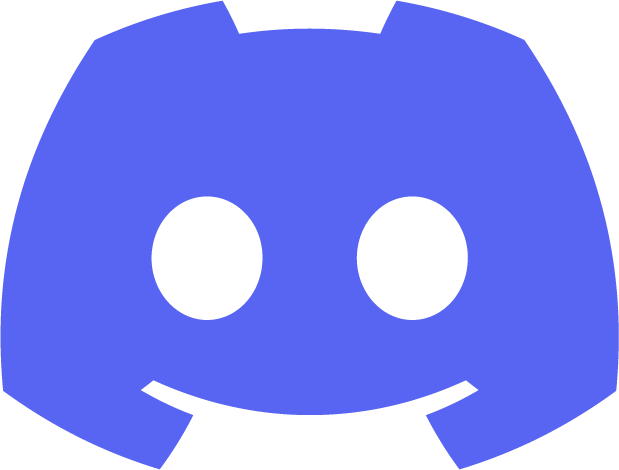
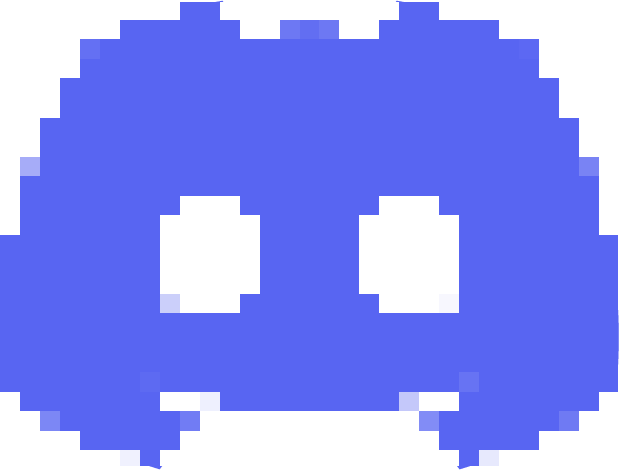
footer

diff --git a/src/components/Footer/Footer.jsx b/src/components/Footer/Footer.jsx
@@ -1,20 +1,63 @@
 import styles from "./footer.module.css"
 
-import tiktokIcon from "@assets/tiktok.png";
+import gmailIcon from "@assets/gmail2.png";
 import instagramIcon from "@assets/instagram.png";
 import discordIcon from "@assets/discord.png";
+import rufusIcon from "@assets/rufus.png"
 
-
-// test 
 const Footer = () => {
     return (
-        <footer className={styles.footer}>
-            <div className={styles.socials}>
-                <a href="#"><img src={tiktokIcon} alt="TikTok" /></a>
-                <a href="#"><img src={instagramIcon} alt="Instagram" /></a>
-                <a href="#"><img src={discordIcon} alt="Discord" /></a>
-            </div>
-        </footer>
+            <footer className={styles.footer}>
+                <div className={styles.footer_content}>
+                    <h2 className={styles.footer_title}>MERCED GAME JAM 2025!</h2>
+                    <p className={styles.footer_tagline}>BUILD · PLAY · CONNECT</p>
+                                        
+                    <div className={styles.socials}>
+                        <div className={styles.gmail_container}>
+                            <a 
+                                href="mailto:ucmgamedevelopmentclub@gmail.com" 
+                                className={styles.social_icon}
+                            >
+                                <img className={styles.pixel_icon} src={gmailIcon}/>
+                            </a>
+                        </div>
+                        <div className={styles.insta_container}>
+                            <a 
+                                href="https://www.instagram.com/ucmgamedevelopmentclub/?hl=en" 
+                                className={styles.social_icon}
+                                target="_blank"
+                            >
+                                <img className={styles.pixel_icon} src={instagramIcon}/>
+                            </a>
+                        </div>
+                        <div className={styles.discord_container}>
+                            <a 
+                                href="https://www.instagram.com/ucmgamedevelopmentclub/?hl=en " 
+                                className={styles.social_icon}
+                                target="_blank"
+                            >
+                                <img className={styles.pixel_icon} src={discordIcon}/>
+                            </a>
+                        </div>
+                        <div className={styles.rufus_container}>
+                            <a  
+                                href="https://events.ucmerced.edu/group/game_development_club " 
+                                className={styles.social_icon}
+                                target="_blank"
+                            >
+                                <img className={styles.pixel_icon} src={rufusIcon}/>
+                            </a>
+                        </div>
+                    </div>
+                                        
+                    <div>
+                        <span className={styles.text}>2025 Merced Game Jam Team</span>
+                    </div>
+                    
+                    <div class="pixel-character"></div>
+                </div>
+                
+            </footer>
     );
 };
 

diff --git a/src/components/Footer/footer.module.css b/src/components/Footer/footer.module.css
@@ -1,10 +1,154 @@
-.footer {
-    padding: 20px;
-    background: blue;
-    text-align: center;
+@font-face {
+    font-family: 'MonroFont';
+    src: url('../../assets/fonts/Munro-2LYe.ttf') format('truetype');
+    font-weight: normal;
+    font-style: normal;
 }
 
-.footer .socials img {
-    width: 30px;
-    margin: 0 10px;
+
+.footer {
+    background-color: #111;
+    position: relative;
+    border-top: 4px solid #444;
+    overflow: hidden;
+    font-family: 'MonroFont';
 }
+
+.footer::before {
+    content: '';
+    position: absolute;
+    top: 0;
+    left: 0;
+    right: 0;
+    height: 3px;
+    background: linear-gradient(90deg, #ff0055, #5500ff, #00ff55, #ffaa00);
+    background-size: 200% 200%;
+    animation: rainbow 3s linear infinite;
+}
+
+.footer_content {
+    max-width: 1200px;
+    margin: 0 auto;
+    padding: 20px;
+    display: flex;
+    flex-direction: column;
+    align-items: center;
+    position: relative;
+}
+
+.footer_title {
+    color: #fff;
+    font-size: 28px;
+    margin-bottom: 15px;
+    text-shadow: 
+      3px 3px 0 #ff0055,
+      -3px -3px 0 #5500ff;
+    letter-spacing: 2px;
+    transform: rotate(-2deg);
+    animation: pulse 2s infinite;
+}
+  
+
+.footer_tagline {
+    color: #aaa;
+    text-align: center;
+    font-size: 14px;
+    margin-bottom: 20px;
+  }
+
+  /* Social icons container */
+  .socials {
+    display: flex;
+    justify-items: center;
+    align-items: center;
+    gap: 20px;
+    position: relative;
+    z-index: 2;
+    margin-bottom: 25px;
+  }
+  
+  /* Base social icon styling */
+  .social_icon {
+    width: 100%;
+    display: flex;
+    justify-content: center;
+  }
+
+  .gmail_container {
+    display: flex;
+    width: 35px;
+    height: 30px;
+  }
+
+  .insta_container {
+    display: flex;
+    width: 35px;
+    height: 35px;
+  }
+
+  .discord_container {
+    display: flex;
+    width: 35px;
+    height: 30px;
+  }
+
+  .rufus_container {
+    display: flex;
+    width: 35px;
+    height: 40px;
+    margin-bottom: 2px
+  }
+
+
+  
+  /* Pixel icon inside each social button */
+  .pixel-icon {
+    width: 30px;
+    height: 30px;
+    display: block;
+    image-rendering: pixelated;
+    transition: transform 0.2s;
+  }
+  
+  /* Icon images - replace with actual pixel art icons */
+  .gmail-icon .pixel-icon {
+    background-image: url('pixel-gmail.png');
+    background-size: contain;
+  }
+  
+  .instagram-icon .pixel-icon {
+    background-image: url('pixel-instagram.png');
+    background-size: contain;
+  }
+  
+  .discord-icon .pixel-icon {
+    background-image: url('pixel-discord.png');
+    background-size: contain;
+  }
+  
+  .bobcat-icon .pixel-icon {
+    background-image: url('pixel-bobcat.png');
+    background-size: contain;
+  }
+  
+  
+  .text {
+    display: flex;
+    justify-content: space-between;
+    width: 100%;
+    font-size: 12px;
+    color: #777;
+
+  }
+  
+
+@keyframes rainbow {
+    0% { background-position: 0% 50%; }
+    100% { background-position: 100% 50%; }
+}
+
+@keyframes pulse {
+    0% { transform: rotate(-2deg) scale(1); }
+    50% { transform: rotate(-2deg) scale(1.05); }
+    100% { transform: rotate(-2deg) scale(1); }
+  }

diff --git a/src/components/NavBar/navbar.module.css b/src/components/NavBar/navbar.module.css
@@ -18,13 +18,13 @@
 .header::after {
     content: '';
     position: absolute;
-    top: 2px;        /* Distance from outer border */
-    left: 2px;       /* Distance from outer border */
-    right: 2px;      /* Distance from outer border */
-    bottom: 2px;     /* Distance from outer border */
-    border: 3px solid #333333;  /* Inner border color and thickness */
-    pointer-events: none;  /* Allows clicks to pass through to elements below */
-    z-index: 1;      /* Make sure it appears above the background but below content */
+    top: 2px;        
+    left: 2px;       
+    right: 2px;      
+    bottom: 2px;     
+    border: 3px solid #333333;  
+    pointer-events: none;  
+    z-index: 1;      
 }
 
 /* Ensure header contents appear above the inner border */

diff --git a/src/pages/HomePage/hooks/useClick.jsx b/src/pages/HomePage/hooks/useClick.jsx
@@ -2,7 +2,7 @@ import { useState, useEffect, useRef } from 'react';
 
 import { gsap } from 'gsap';
 
-const useClick = (hammerClicked, sword, swordText, setSwordText, camera, setShowNavBar) => {
+const useClick = (hammerClicked, sword, swordText, setSwordText, camera, setShowNavBar, setShowFooter) => {
   const fullText = "MercedJam";
   const currentIndex = useRef(0);
   const lastClickTime = useRef(0);
@@ -54,6 +54,7 @@ const useClick = (hammerClicked, sword, swordText, setSwordText, camera, setShow
         });
 
         setShowNavBar(true); 
+        setShowFooter(true);
       }
     };
 
